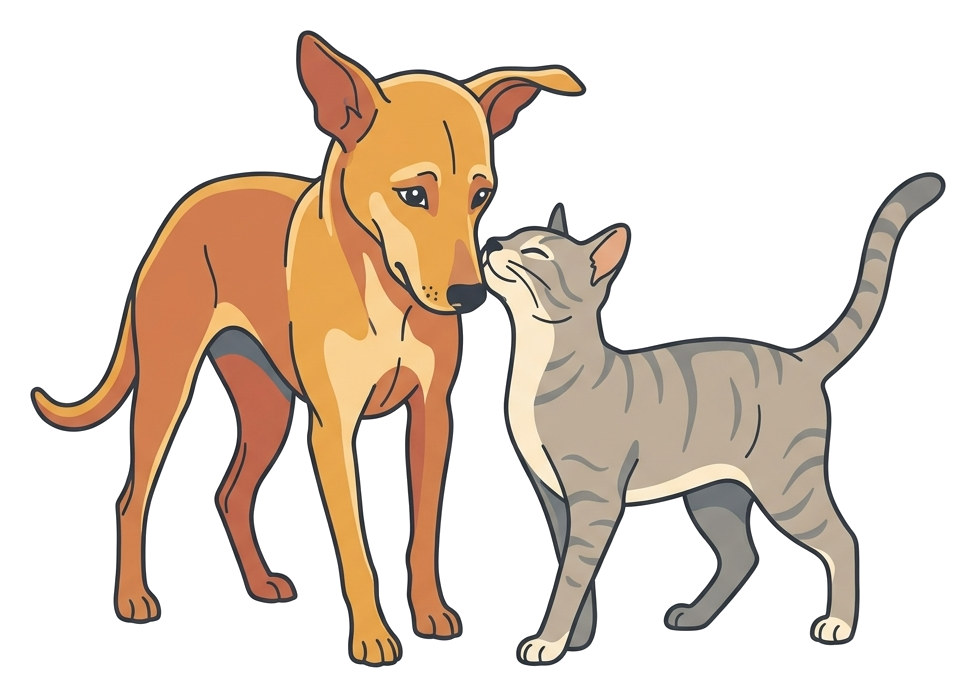
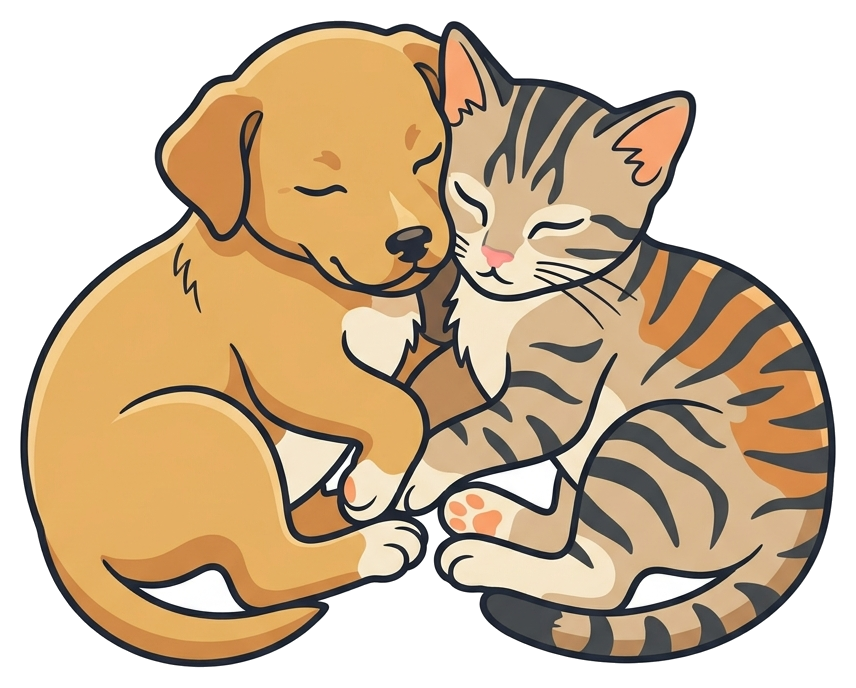
feat(hero): set newborn Bangladeshi stray puppy and kitten sleeping vector artwork

diff --git a/public/index.html b/public/index.html
@@ -199,7 +199,7 @@
         <div class="hero-art" id="hero-art-container" aria-label="PawNir rescue Bangladesh deshi dog and cat companions">
           <div class="hero-card hero-card-top"><span class="card-icon">✓</span><span><strong data-i18n="hero.badge1Title">Verified network</strong><small data-i18n="hero.badge1Sub">Community checked</small></span></div>
           <div class="pet-illustration">
-            <img class="hero-pet-image" id="hero-pet-image" src="/hero-bangladesh-stray-vector-02.png?v=20261031-2" alt="Rescued Bangladeshi Deshi dog and cat caring companions in modern Adobe Illustrator vector" width="440" height="340" loading="eager" />
+            <img class="hero-pet-image" id="hero-pet-image" src="/hero-baby-stray-sleeping-vector.png?v=20261031-3" alt="Newborn Bangladeshi Deshi puppy and kitten sleeping cuddle in modern Adobe Illustrator vector" width="440" height="340" loading="eager" />
           </div>
           <div class="hero-card hero-card-bottom"><span class="rating">★</span><span><strong>4.9 / 5</strong><small data-i18n="hero.badge2Sub">Loved by pet parents</small></span></div>
         </div>
